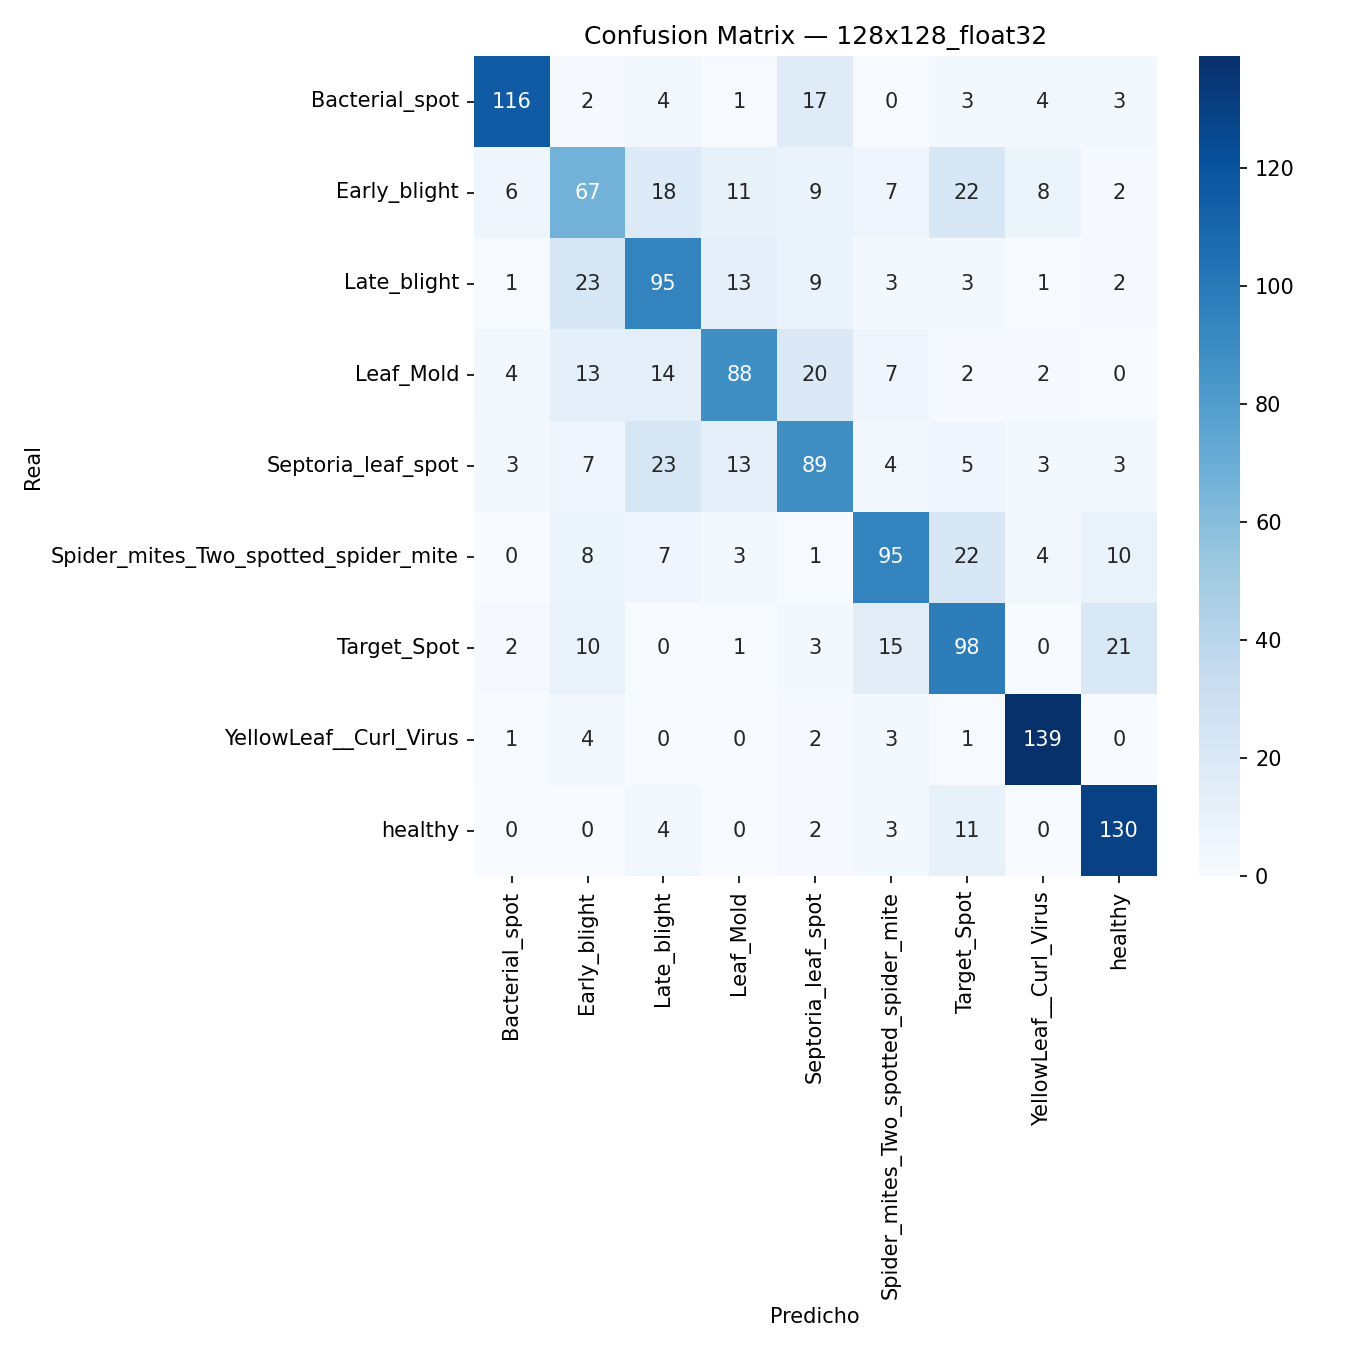
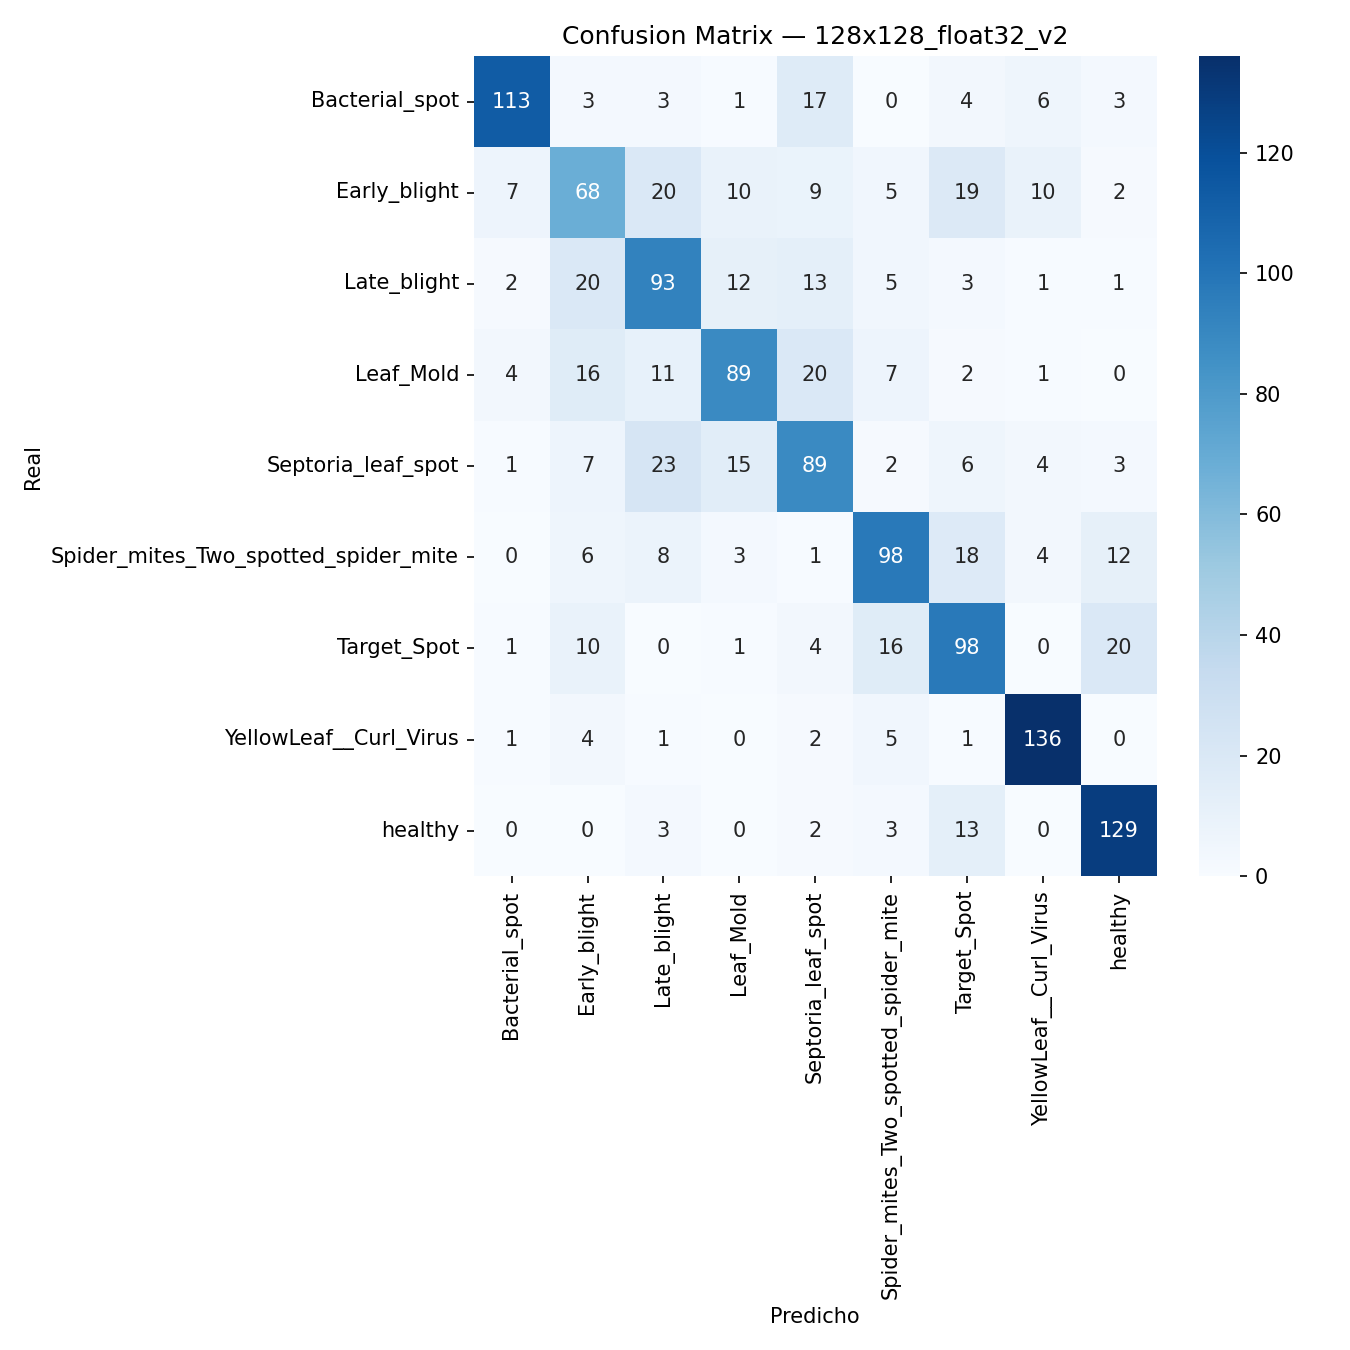
UPDATE: Correccion de resultados y resultados de entrenamiento 2 en analisis.md.

diff --git a/CNN/analisis.md b/CNN/analisis.md
@@ -64,7 +64,7 @@ Despues de esto se cuantizo a INT8, donde se obtuvieron los siguientes resultado
 
 * Conversion de parametros a INT8: $48.953$ s.
 * Tamaño del modelo en INT8: $120.8$ KB.
-* Accuracy int8: $0.8260$.
+* Accuracy int8: $0.8259$.
 * Confussion Matrix:
 ![ Confussion Matrix $256$ $\times$ $256$ (int8) ]( resultados_experimentos/cm_256x256_int8.png )
 
@@ -72,7 +72,7 @@ Para finalizar tenemos el modelo cuantizado en INT16, donde los resultados fuero
 
 * Conversion de parametros a INT16: $95.270$ s.
 * Tamaño del modelo en INT8: $141.9$ KB.
-* Accuracy int16: $0.8440$.
+* Accuracy int16: $0.8274$.
 * Confussion Matrix:
 ![ Confussion Matrix $256$ $\times$ $256$ (int16) ]( resultados_experimentos/cm_256x256_int16.png )
 
@@ -82,7 +82,7 @@ Para la segunda etapa de entrenamiento donde se uso las imagenes con un reescala
 
 * Entrenamiento: $8052.963$ s.
 ![ Accuracy vs Loss in Training ]( resultados_experimentos/training_128x128.png)
-* Accuracy: $0.6793$.
+* Accuracy: $0.6763$.
 * Tiempo de evaluacion: $75.031$ s.
 * Confussion Matrix:
 ![ Confussion Matrix $128$ $\times$ $128$ (float32) ]( resultados_experimentos/cm_128x128_float32.png )
@@ -91,7 +91,7 @@ Despues de esto se cuantizo a INT8, donde se obtuvieron los siguientes resultado
 
 * Conversion de parametros a INT8: $42.980$ s.
 * Tamaño del modelo en INT8: $120.8$ KB.
-* Accuracy int8: $0.6900$.
+* Accuracy int8: $0.6800$.
 * Confussion Matrix:
 ![ Confussion Matrix $128$ $\times$ $128$ (int8) ]( resultados_experimentos/cm_128x128_int8.png )
 
@@ -99,7 +99,7 @@ Para finalizar tenemos el modelo cuantizado en INT16, donde los resultados fuero
 
 * Conversion de parametros a INT16: $82.207$ s.
 * Tamaño del modelo en INT8: $141.9$ KB.
-* Accuracy int16: $0.6680$.
+* Accuracy int16: $0.6763$.
 * Confussion Matrix:
 ![ Confussion Matrix $128$ $\times$ $128$ (int16 ]( resultados_experimentos/cm_128x128_int16.png )
 
@@ -109,7 +109,7 @@ Para la tercer etapa y ultima etapa de entrenamiento donde se uso las imagenes c
 
 * Entrenamiento: $8052.963$ s.
 ![ Accuracy vs Loss in Training ]( resultados_experimentos/training_96x96.png    )
-* Accuracy: $0.7274$.
+* Accuracy: $0.7259$.
 * Tiempo de evaluacion: $72.404$ s.
 * Confussion Matrix:
 ![ Confussion Matrix $96$ $\times$ $96$ (float32) ]( resultados_experimentos/cm_96x96_float32.png )
@@ -118,7 +118,7 @@ Despues de esto se cuantizo a INT8, donde se obtuvieron los siguientes resultado
 
 * Conversion de parametros a INT8: $41.845$ s.
 * Tamaño del modelo en INT8: $120.7$ KB.
-* Accuracy int8: $0.7120$.
+* Accuracy int8: $0.7230$.
 * Confussion Matrix:
 ![ Confussion Matrix $96$ $\times$ $96$ (int8) ]( resultados_experimentos/cm_96x96_int8.png )
 
@@ -126,25 +126,25 @@ Para finalizar tenemos el modelo cuantizado en INT16, donde los resultados fuero
 
 * Conversion de parametros a INT16: $81.680$ s.
 * Tamaño del modelo en INT8: $141.8$ KB.
-* Accuracy int16: $0.7380$.
+* Accuracy int16: $0.7267$.
 * Confussion Matrix:
 ![ Confussion Matrix $96$ $\times$ $96$ (int16) ]( resultados_experimentos/cm_96x96_int16.png )
 
 | Resolucion | Tiempo de Entrenamiento ( s ) | Cuantizacion | Accuracy | Inferencia ( ms / img ) | Tamaño del modelo ( kB ) | Tiempo de conversion ( s ) |
 |---|---|---|---|---|---|---|
-| $256$ $\times$ $256$ | $8254.509$ | float32 | $0.831852$ | $86.3717$ | $1112.441$ | No aplica |
-| $256$ $\times$ $256$ | $8254.509$ | INT8 | $0.826000$ | $215.9530$ | $120.773$ | $48.9533$ |
-| $256$ $\times$ $256$ | $8254.509$ | INT16 | $0.844000$ | $269.4384$ | $141.882$ | $95.2697$ |
-| $128$ $\times$ $128$ | $8052.963$ | float32 | $0.679259$ | $67.2693$ | $1112.293$ | No aplica |
-| $128$ $\times$ $128$ | $8052.963$ | INT8 | $0.690000$ | $203.0800$ | $120.773$ | $42.9797$ |
-| $128$ $\times$ $128$ | $8052.963$ | INT16 | $0.668000$ | $211.4232$ | $141.882$ | $82.2065$ |
-| $96$ $\times$ $96$ | $7811.027$ | float32 | $0.727407$ | $73.2562$ | $1112.286$ | No aplica |
-| $96$ $\times$ $96$ | $7811.027$ | INT8 | $0.712000$ | $196.1463$ | $120.656$ | $41.8454$ |
-| $96$ $\times$ $96$ | $7811.027$ | INT16 | $0.738000$ | $214.6988$ | $141.7656$ | $81.6804$ |
+| $256$ $\times$ $256$ | $8254.509$ | float32 | $0.831852$ | $7.5678$ | $1112.441$ | No aplica |
+| $256$ $\times$ $256$ | $8254.509$ | INT8 | $0.825926$ | $207.1756$ | $120.773$ | $48.9533$ |
+| $256$ $\times$ $256$ | $8254.509$ | INT16 | $0.827407$ | $264.2121$ | $141.882$ | $95.2697$ |
+| $128$ $\times$ $128$ | $8052.963$ | float32 | $0.676296$ | $3.3505$ | $1112.293$ | No aplica |
+| $128$ $\times$ $128$ | $8052.963$ | INT8 | $0.680000$ | $214.8316$ | $120.773$ | $42.9797$ |
+| $128$ $\times$ $128$ | $8052.963$ | INT16 | $0.676296$ | $218.2872$ | $141.882$ | $82.2065$ |
+| $96$ $\times$ $96$ | $7811.027$ | float32 | $0.725926$ | $3.7295$ | $1112.286$ | No aplica |
+| $96$ $\times$ $96$ | $7811.027$ | INT8 | $0.722963$ | $201.9591$ | $120.656$ | $41.8454$ |
+| $96$ $\times$ $96$ | $7811.027$ | INT16 | $0.726667$ | $213.9610$ | $141.7656$ | $81.6804$ |
 
 ## CORRECIONES REALIZADAS
 
-Despues de haber entrenado el modelo por primera vez, se observo que el mejor accuracy obtenido fue cuando se entreno el modelo con las dimensiones originales de las imagenes y cuantizando a INT16, el accuracy que se obtuvo fue de $0.8440$, lo cual fue un buen punto de partida, a partir de aqui se tomaron desiciones respecto a como mejorar este accuracy obtenido, y buscar subirlo lo mayor posible.
+Despues de haber entrenado el modelo por primera vez, se observo que el mejor accuracy obtenido fue cuando se entreno el modelo con las dimensiones originales de las imagenes y cuantizando a float32, el accuracy que se obtuvo fue de $0.8318$, lo cual fue un buen punto de partida, a partir de aqui se tomaron desiciones respecto a como mejorar este accuracy obtenido, y buscar subirlo lo mayor posible.
 
 Para el primer entrenamiento realizado, se escogio como modelo de segmentacion el metodo grabCut de openCV, este metodo aunque muy rapido, cometio muchos errores a la hora de segmentar algunas imagenes, ya que o les recortaba parte de la hoja, por lo tanto las dejaba incompletas o sino, les agreagaba sombra como si fueran parte de la hoja, haciendo que el modelo aprendiera patrones que no eran correctos debido a la forma en la cual estaban siendo segmentadas.
 
@@ -182,7 +182,7 @@ Despues de esto se cuantizo a INT8, donde se obtuvieron los siguientes resultado
 
 * Conversion de parametros a INT8: $35.354$ s.
 * Tamaño del modelo en INT8: $120.8$ KB.
-* Accuracy int8: $0.9120$.
+* Accuracy int8: $0.8837$.
 * Confussion Matrix:
 ![ Confussion Matrix $256$ $\times$ $256$ (int8) ]( resultados_experimentos_2/cm_256x256_int8.png )
 
@@ -190,7 +190,7 @@ Para finalizar tenemos el modelo cuantizado en INT16, donde los resultados fuero
 
 * Conversion de parametros a INT16: $67.825$ s.
 * Tamaño del modelo en INT8: $141.9$ KB.
-* Accuracy int16: $0.8980$.
+* Accuracy int16: $0.8867$.
 * Confussion Matrix:
 ![ Confussion Matrix $256$ $\times$ $256$ (int16) ]( resultados_experimentos_2/cm_256x256_int16.png )
 
@@ -209,7 +209,7 @@ Despues de esto se cuantizo a INT8, donde se obtuvieron los siguientes resultado
 
 * Conversion de parametros a INT8: $31.813$ s.
 * Tamaño del modelo en INT8: $120.8$ KB.
-* Accuracy int8: $0.7060$.
+* Accuracy int8: $0.7104$.
 * Confussion Matrix:
 ![ Confussion Matrix $128$ $\times$ $128$ (int8) ]( resultados_experimentos_2/cm_128x128_int8.png )
 
@@ -217,7 +217,7 @@ Para finalizar tenemos el modelo cuantizado en INT16, donde los resultados fuero
 
 * Conversion de parametros a INT16: $58.952$ s.
 * Tamaño del modelo en INT8: $141.9$ KB.
-* Accuracy int16: $0.7100$.
+* Accuracy int16: $0.7015$.
 * Confussion Matrix:
 ![ Confussion Matrix $128$ $\times$ $128$ (int16 ]( resultados_experimentos_2/cm_128x128_int16.png )
 
@@ -236,7 +236,7 @@ Despues de esto se cuantizo a INT8, donde se obtuvieron los siguientes resultado
 
 * Conversion de parametros a INT8: $30.056$ s.
 * Tamaño del modelo en INT8: $120.7$ KB.
-* Accuracy int8: $0.7580$.
+* Accuracy int8: $0.7689$.
 * Confussion Matrix:
 ![ Confussion Matrix $96$ $\times$ $96$ (int8) ]( resultados_experimentos_2/cm_96x96_int8.png )
 
@@ -244,19 +244,19 @@ Para finalizar tenemos el modelo cuantizado en INT16, donde los resultados fuero
 
 * Conversion de parametros a INT16: $59.788$ s.
 * Tamaño del modelo en INT8: $141.8$ KB.
-* Accuracy int16: $0.7460$.
+* Accuracy int16: $0.7667$.
 * Confussion Matrix:
 ![ Confussion Matrix $96$ $\times$ $96$ (int16) ]( resultados_experimentos_2/cm_96x96_int16.png )
 
 | Resolucion | Tiempo de Entrenamiento ( s ) | Cuantizacion | Accuracy | Inferencia ( ms / img ) | Tamaño del modelo ( kB ) | Tiempo de conversion ( s ) |
 |---|---|---|---|---|---|---|
-| $256$ $\times$ $256$ | $869.451$ | float32 | $0.885926$ | $84.4405$ | $1112.440$ | No aplica |
-| $256$ $\times$ $256$ | $869.451$ | INT8 | $0.912000$ | $8.3475$ | $120.773$ | $35.3539$ |
-| $256$ $\times$ $256$ | $869.451$ | INT16 | $0.898000$ | $69.4544$ | $141.882$ | $67.8251$ |
-| $128$ $\times$ $128$ | $531.974$ | float32 | $0.702963$ | $71.8072$ | $1112.294$ | No aplica |
-| $128$ $\times$ $128$ | $531.974$ | INT8 | $0.706000$ | $6.7789$ | $120.773$ | $31.8126$ |
-| $128$ $\times$ $128$ | $531.974$ | INT16 | $0.710000$ | $23.8390$ | $141.882$ | $58.9521$ |
-| $96$ $\times$ $96$ | $534.568$ | float32 | $0.762222$ | $77.8624$ | $1112.286$ | No aplica |
-| $96$ $\times$ $96$ | $534.568$ | INT8 | $0.758000$ | $6.3367$ | $120.656$ | $30.0562$ |
-| $96$ $\times$ $96$ | $534.568$ | INT16 | $0.746000$ | $19.5924$ | $141.765$ | $59.7883$ |
+| $256$ $\times$ $256$ | $869.451$ | float32 | $0.885926$ | $8.6652$ | $1112.440$ | No aplica |
+| $256$ $\times$ $256$ | $869.451$ | INT8 | $0.883704$ | $11.2185$ | $120.773$ | $35.3539$ |
+| $256$ $\times$ $256$ | $869.451$ | INT16 | $0.886667$ | $68.8505$ | $141.882$ | $67.8251$ |
+| $128$ $\times$ $128$ | $531.974$ | float32 | $0.702963$ | $2.8907$ | $1112.294$ | No aplica |
+| $128$ $\times$ $128$ | $531.974$ | INT8 | $0.710370$ | $6.7732$ | $120.773$ | $31.8126$ |
+| $128$ $\times$ $128$ | $531.974$ | INT16 | $0.701481$ | $23.7306$ | $141.882$ | $58.9521$ |
+| $96$ $\times$ $96$ | $534.568$ | float32 | $0.762222$ | $3.9877$ | $1112.286$ | No aplica |
+| $96$ $\times$ $96$ | $534.568$ | INT8 | $0.768889$ | $6.8182$ | $120.656$ | $30.0562$ |
+| $96$ $\times$ $96$ | $534.568$ | INT16 | $0.766667$ | $16.0752$ | $141.765$ | $59.7883$ |
 
